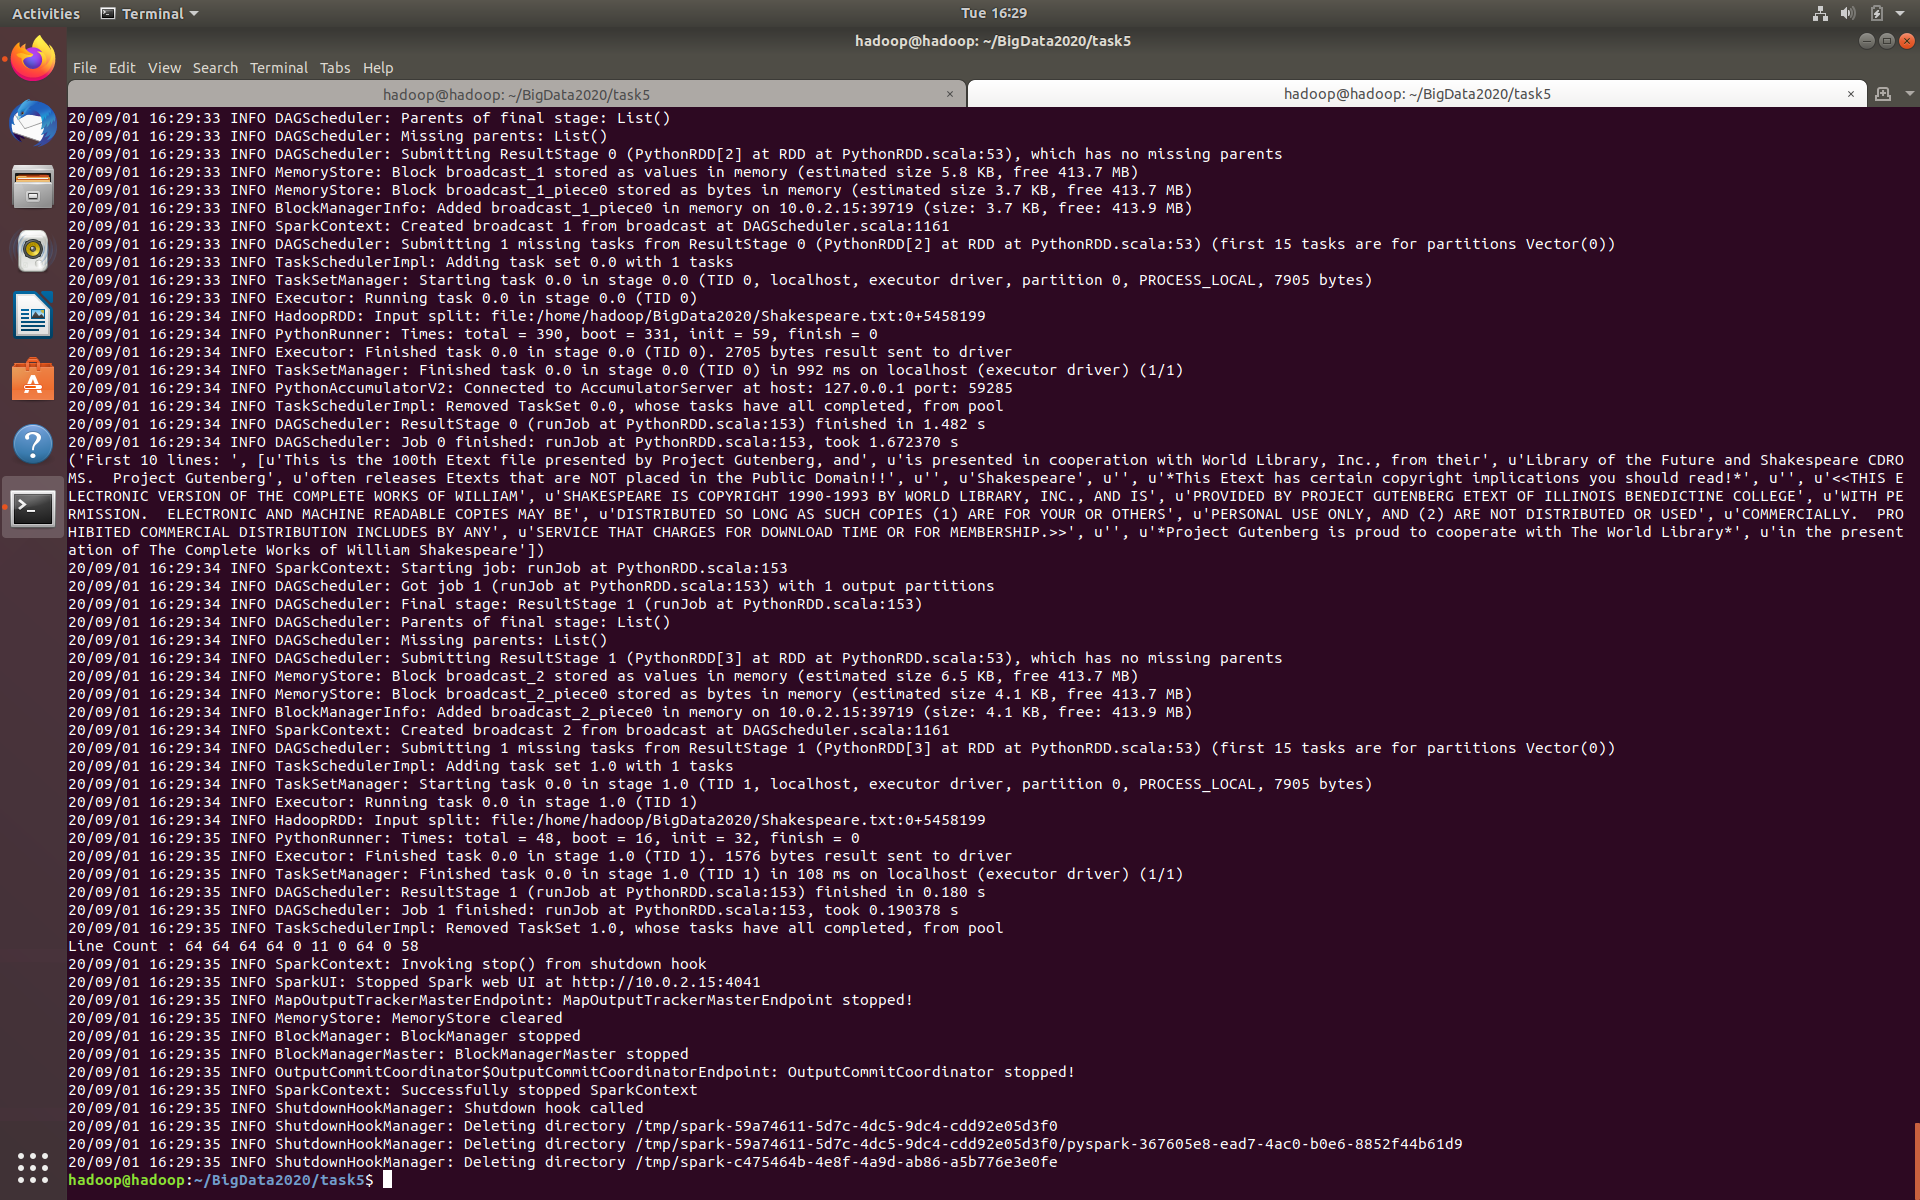
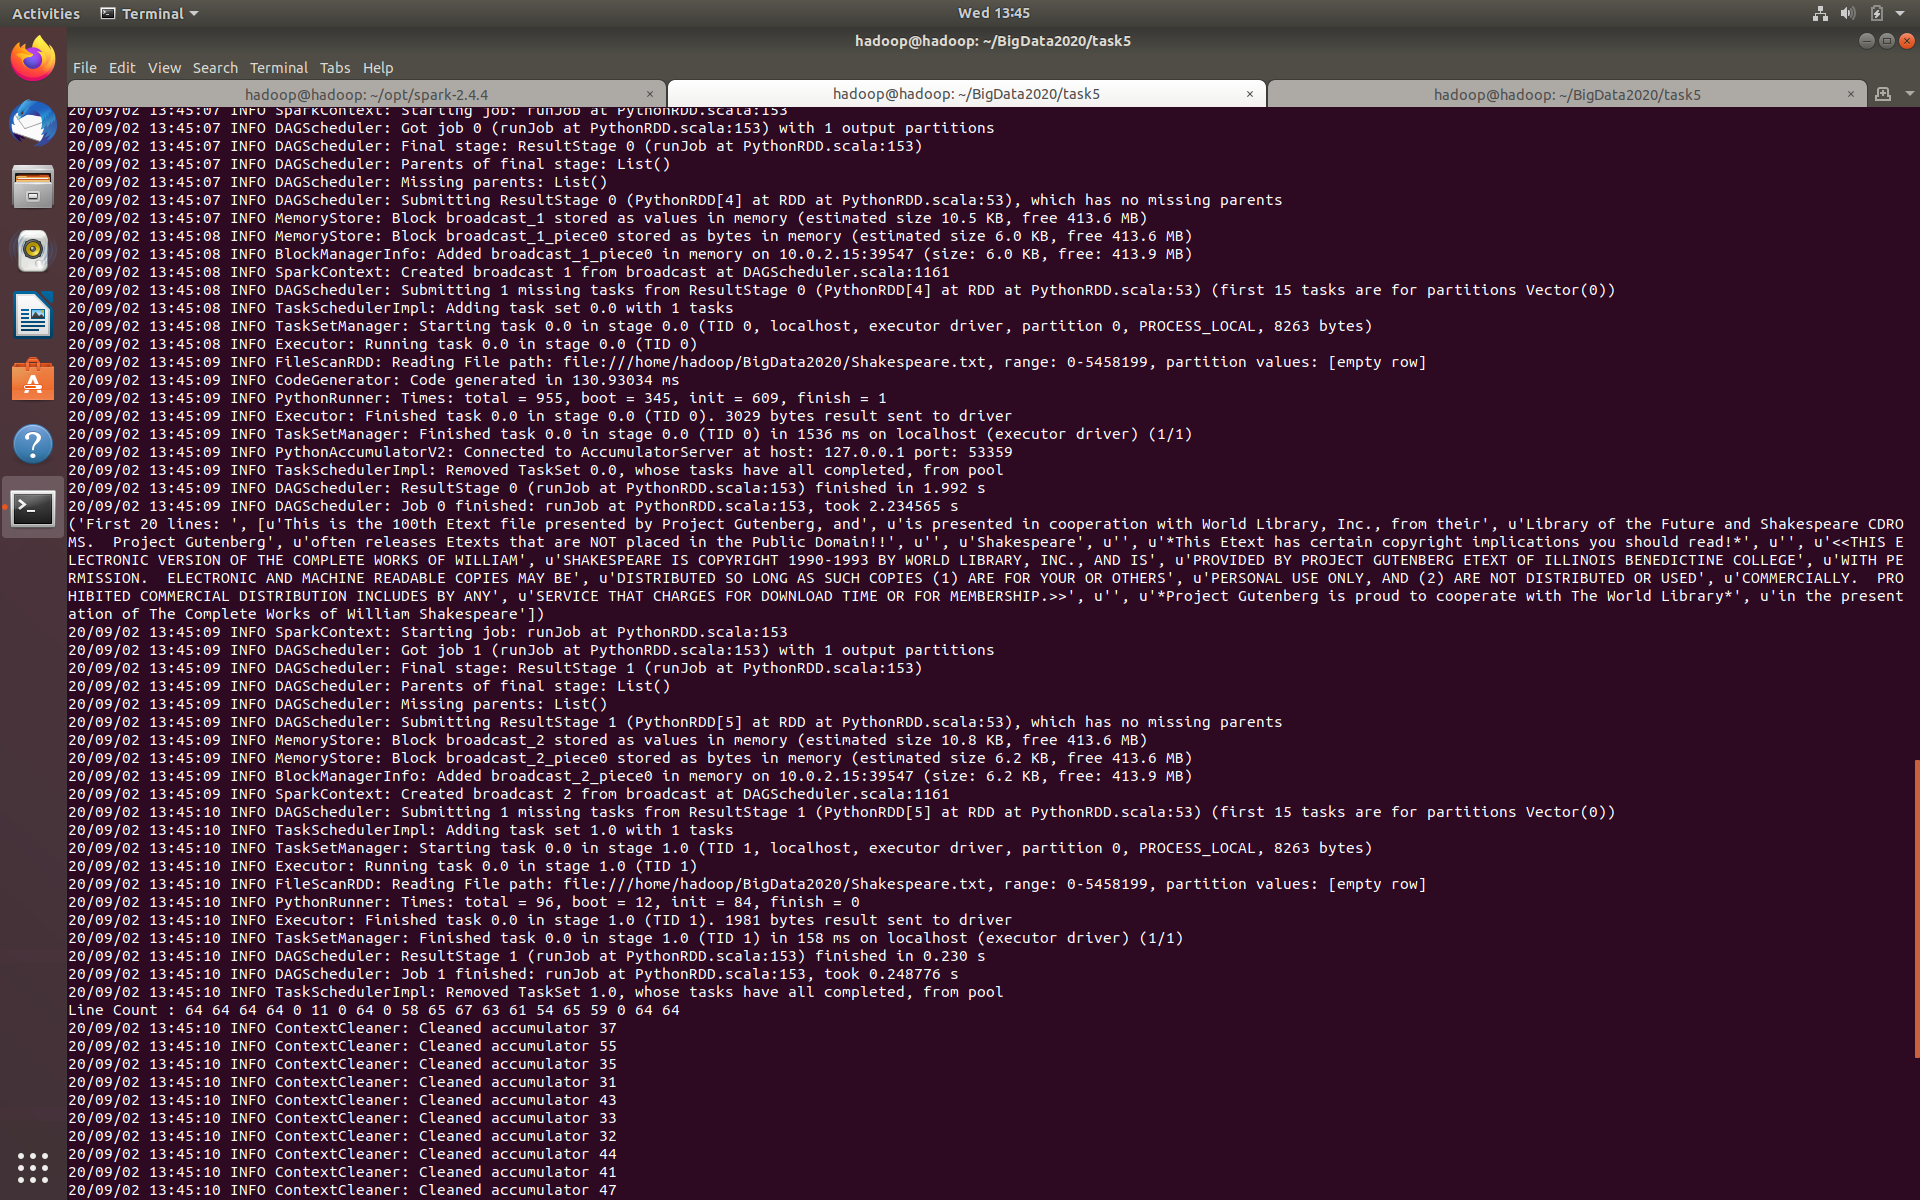
modify script

diff --git a/task5/shakespeare_pyspark.py b/task5/shakespeare_pyspark.py
@@ -1,17 +1,17 @@
-from pyspark import SparkContext
+from pyspark.sql import SparkSession
 
 # create a spark context
-sc = SparkContext(appName='shakespeare')
+ss = SparkSession.builder.appName('Shakespeare').getOrCreate()
 
 # create rdd from text file, stored in lines
-txt = sc.textFile('../Shakespeare.txt')
+lines = ss.read.text('../Shakespeare.txt').rdd.map(lambda x:x[0])
 
 # show the first 20 lines
-print('First 10 lines: ', txt.take(20))
+print('First 20 lines: ', lines.take(20))
 
 # display the count of the first 20 lines
-lineCount = txt.map(lambda x:len(x))
-print('Line Count : ' + ' '.join(map(str,lineCount.take(10))))
+lineCount = lines.map(lambda x:len(x))
+print('Line Count : ' + ' '.join(map(str,lineCount.take(20))))
 
 
 
